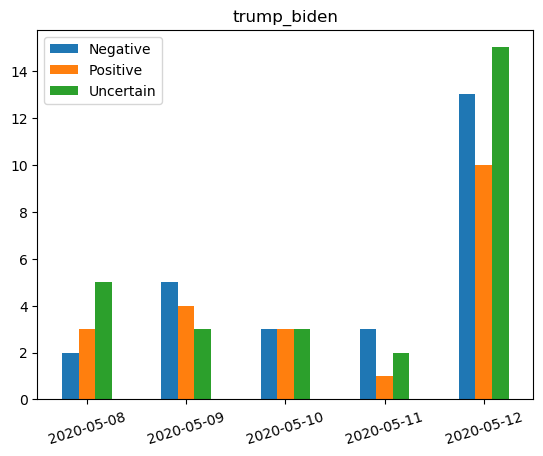
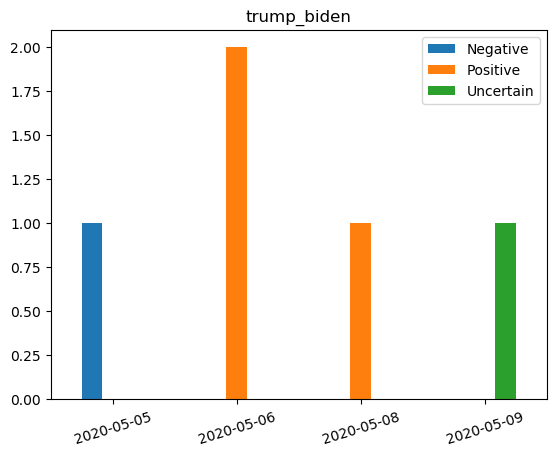
Added function allowing user to filter by key and value (hashtags, mentions, tweet_urls)

diff --git a/modules/flask_service.py b/modules/flask_service.py
@@ -28,6 +28,9 @@ def get_burglaries():
         abort(400, 'Please provide search hashtags: {"hashtags": ["trump", "biden"]}')
     hashtags = request.json['hashtags']
 
+    search_for = {}
+    if 'search_for' in request.json:
+        search_for = request.json['search_for']
 
     file_name = ""
     for index, hashtag in enumerate(hashtags):
@@ -37,6 +40,9 @@ def get_burglaries():
         # If there is more than one search parameter left we add both the current search parameter and an underscore to the file name
         else:
             file_name += (hashtag + "_")
+
+    if(list(search_for.keys())):
+        file_name = list(search_for.values())[0]
 
     # Check type of plot
     if not 'plot_type' in request.json:
@@ -62,11 +68,11 @@ def get_burglaries():
     print(end_date)
 
     # Creating plot
-    do_everything(hashtags, file_name, start_date, end_date, plot_type)
+    do_everything(hashtags, file_name, start_date, end_date, plot_type, search_for)
 
     return send_file("./plots/" + file_name + ".png"), 200
 
-def do_everything(hashtags: list, file_name, start_date, end_date, plot_type):
+def do_everything(hashtags: list, file_name, start_date, end_date, plot_type, search_for: dict):
     # tweet_list a list of tweet objects (not a list of strings)
     tweet_list = web_scraper.get_tweets(100, False, hashtags)
     print("Done scraping...")
@@ -74,7 +80,7 @@ def do_everything(hashtags: list, file_name, start_date, end_date, plot_type):
     # tweet_data is a tuple with a list and 2 dicts: tweets: list[dict[str, str]], hashtag_stats: dict, mention_stats: dict
     tweets, hashtag_stats, mention_stats = Preprocessing.get_tweet_data(tweet_list) 
     print("Done preprocessing...")
-
+    
     # analyzed_tweet_data is a list of tweet dicts with the new data from the SA 
     analyzed_tweet_data = Sentiment_Analysis.analyze_many_tweets(tweets)
     print("Done analyzing...")
@@ -82,6 +88,10 @@ def do_everything(hashtags: list, file_name, start_date, end_date, plot_type):
     # filtering data to get only data between the two specified dates
     filtered_data = presentation.get_tweets_in_daterange(analyzed_tweet_data, start_date, end_date)
     print("Done filtering on date...")
+
+    # more filtering if possible
+    if (list(search_for.keys())):
+        filtered_data = presentation.get_by_key_value(filtered_data, list(search_for.keys())[0], list(search_for.values())[0])
 
     # Getting plot data from the get_sentiment function 
     PLOT_ME = presentation.get_sentiment(filtered_data)

diff --git a/modules/presentation.py b/modules/presentation.py
@@ -76,9 +76,10 @@ def get_by_key_value(tweets, key, value):
     Returns: \n
         Filtered List
     """
-    if key not in ["hashtags", "people", "urls"]:
+    if key not in ["hashtags", "mentions", "tweet_urls"]:
         raise Exception('key has to be "hashtags", "people", "urls"')
-
+    
+    print(tweets[0])
     return list(filter(lambda tweet: value in tweet[key], tweets))
 
 
